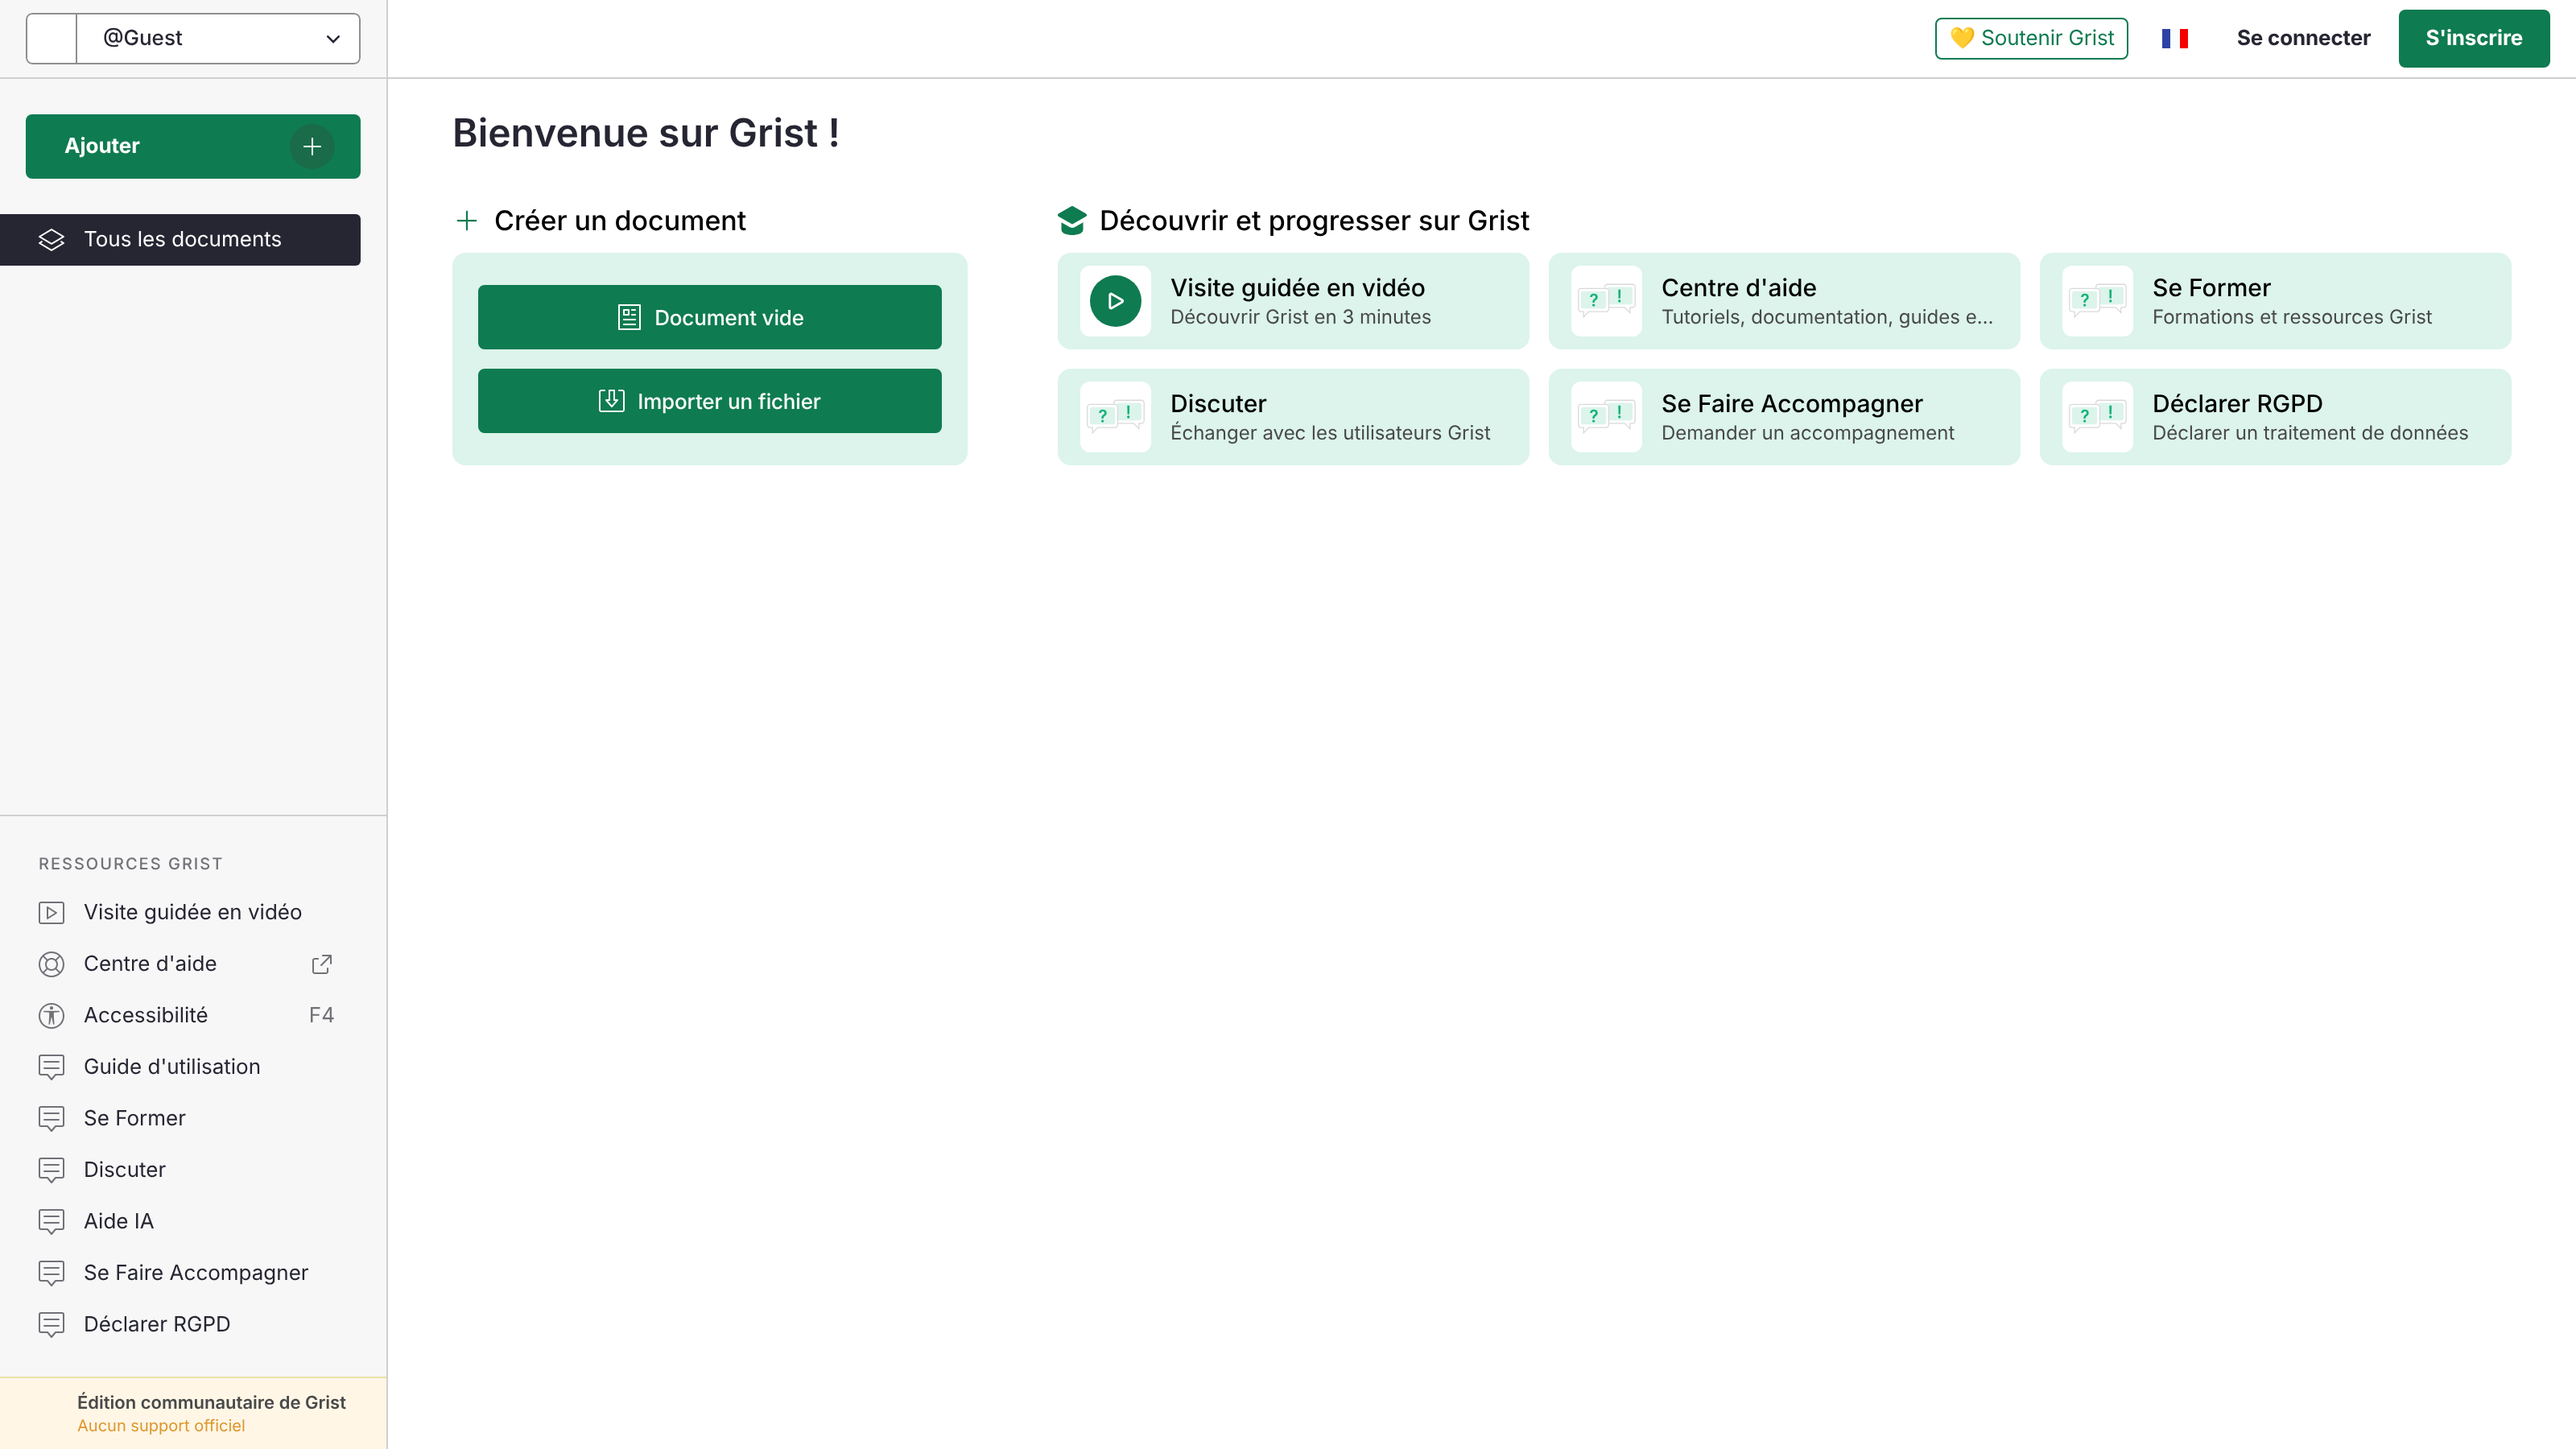
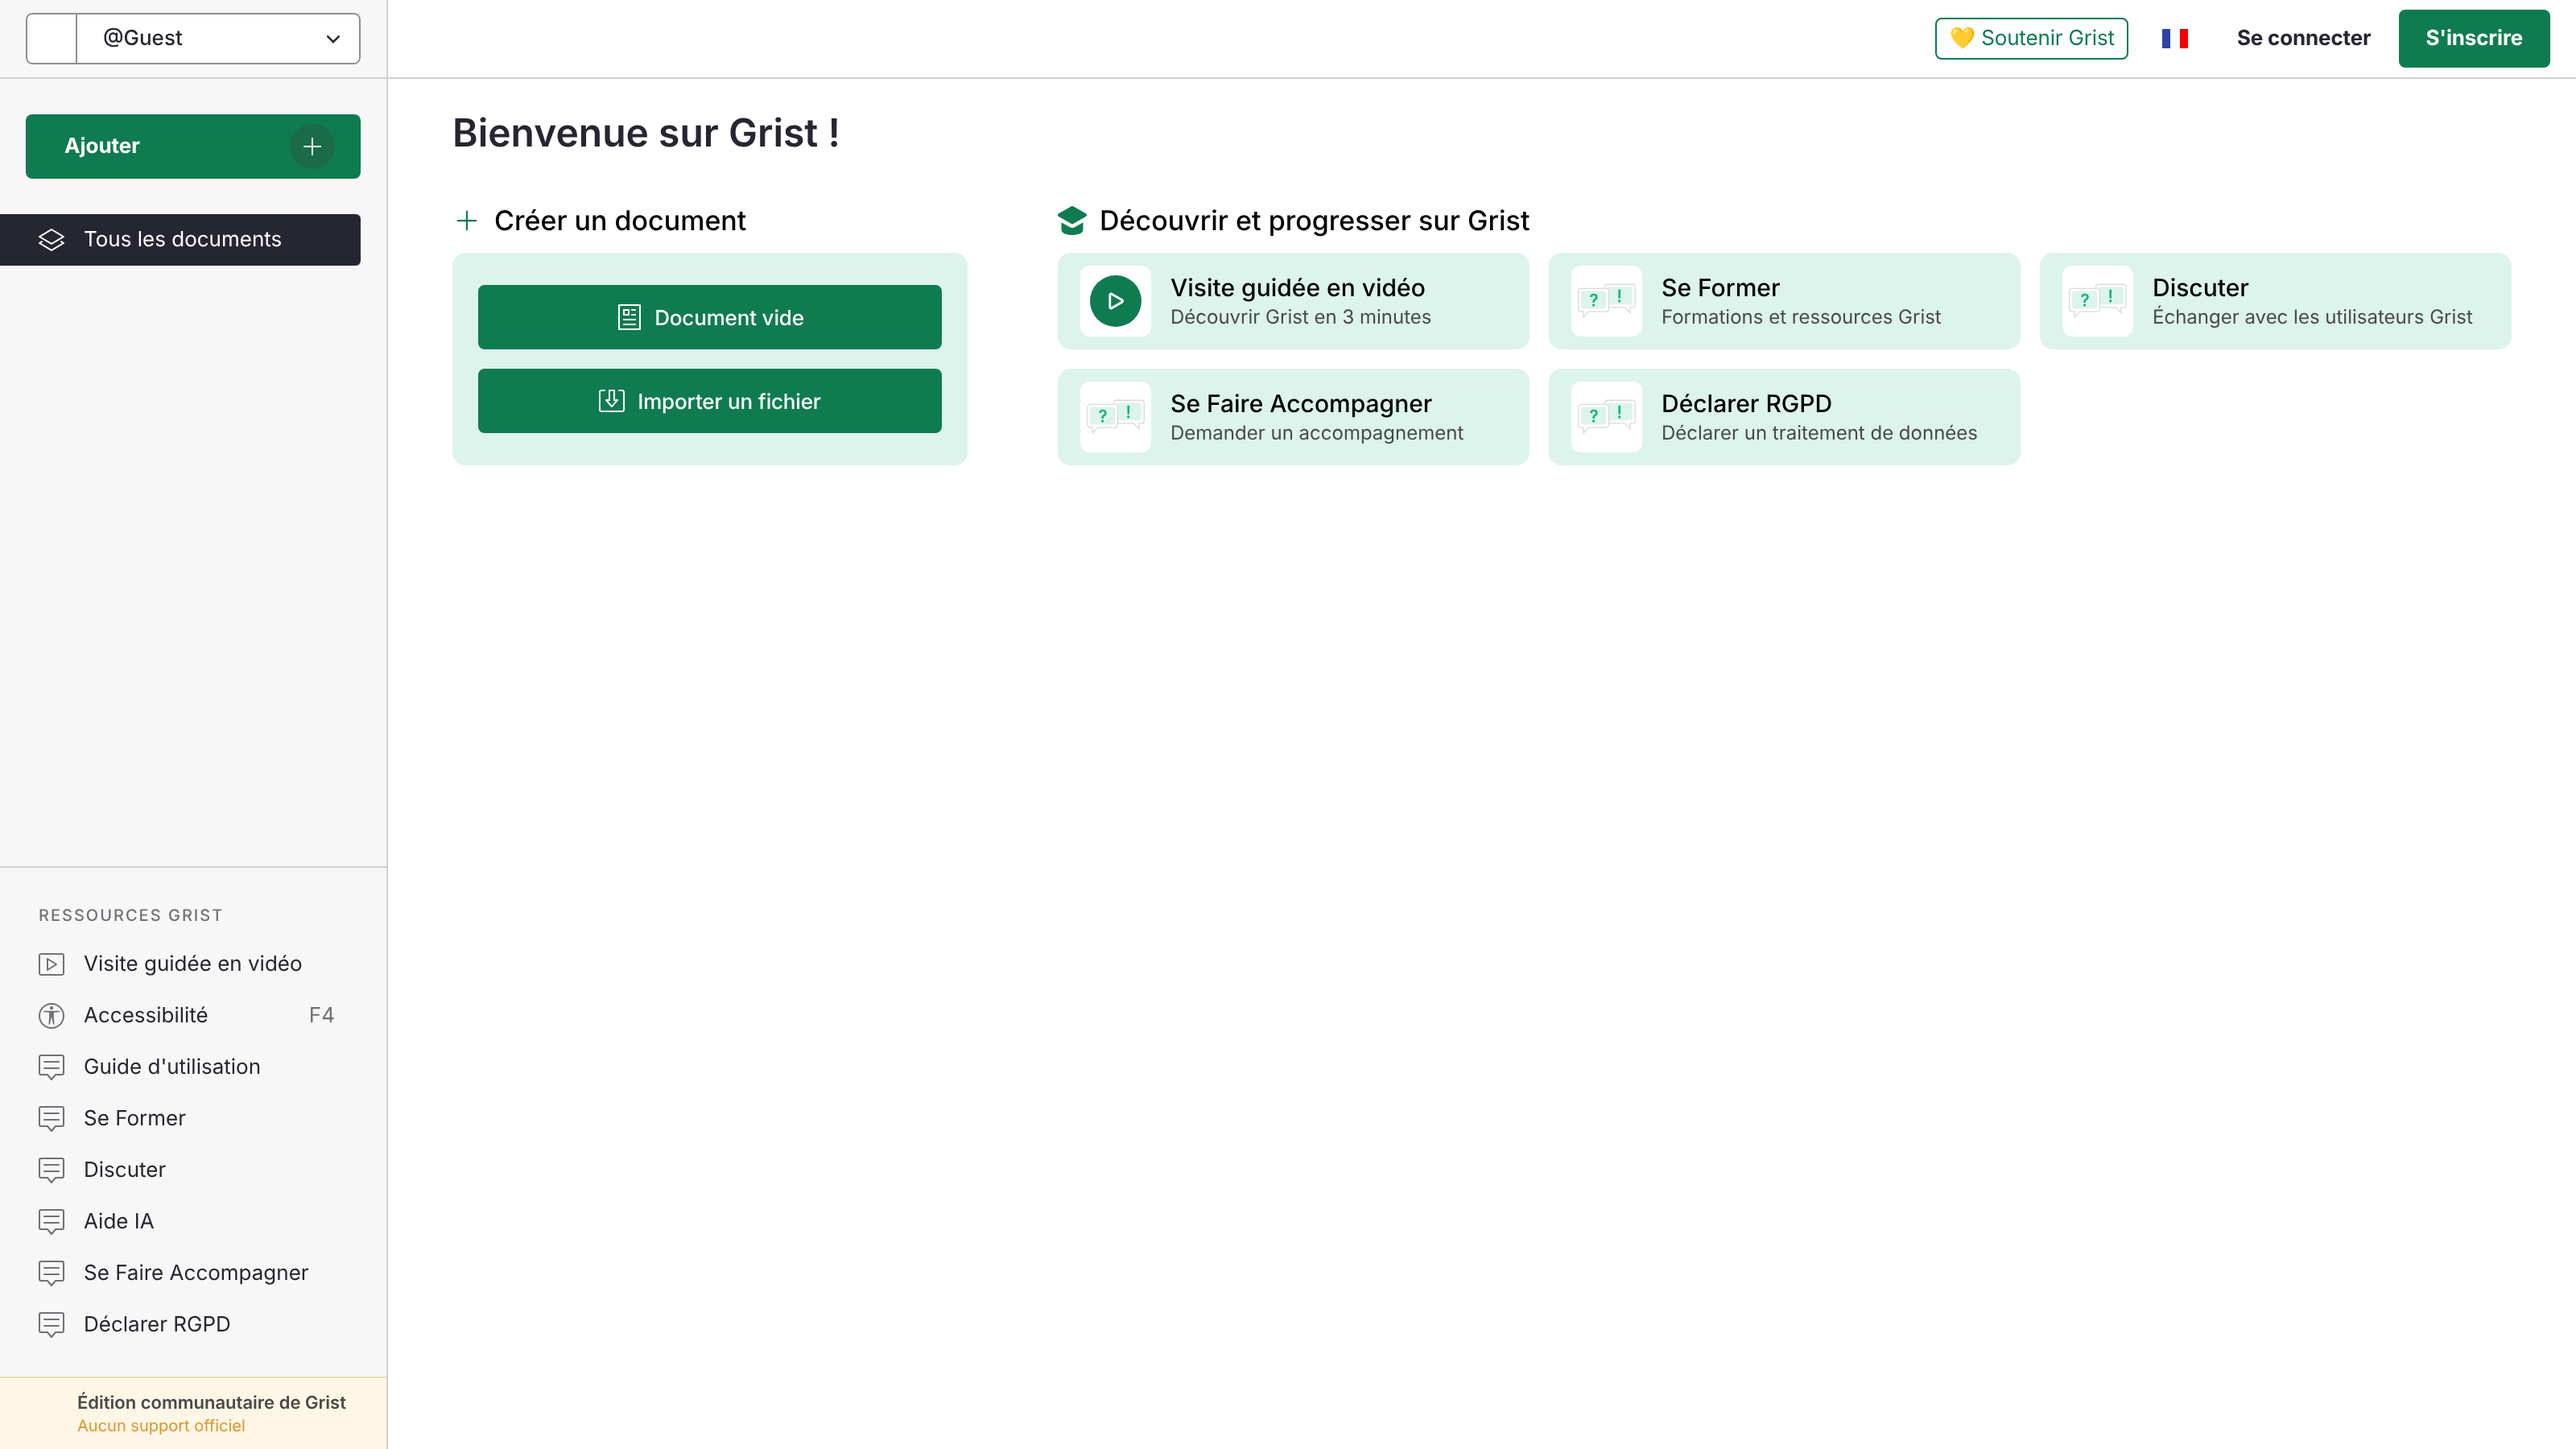
custom.css: minimal version hiding webinars card and help center
Claude-Session: https://claude.ai/code/session_01DnU9Z76kDCiaDEQqvh7PZT

diff --git a/custom/custom.css b/custom/custom.css
@@ -258,31 +258,10 @@
 
 
 /* ============================================================================
- * 6. AJOUTS : masquer des éléments de Grist
- *    Règles hors @layer, avec !important : elles passent devant le style de Grist.
- *    Masquer en CSS ne supprime pas l'élément : custom.js peut toujours s'en
- *    servir comme modèle. Ne PAS utiliser GRIST_HIDE_UI_ELEMENTS=helpCenter
- *    à la place (les boutons ajoutés par custom.js disparaîtraient).
+ * 6. AJOUTS : masquer la carte Webinaires et le Centre d'aide
  * ========================================================================= */
-
-/* Accueil : carte « Webinaires » */
-.test-intro-webinars {
+.test-intro-webinars,               /* carte Webinaires (accueil) */
+.test-intro-help-center,            /* carte Centre d'aide (accueil) */
+div:has(> .test-left-feedback) {    /* lien Centre d'aide (menu de gauche + Outils) */
   display: none !important;
 }
-
-/* Centre d'aide (optionnel) : pour le masquer, retirer le commentaire des 2 lignes.
-   1re ligne : carte de l'accueil.
-   2e ligne  : lien du menu de gauche (accueil) ET du panneau Outils (documents).
-   Les boutons ajoutés par custom.js restent affichés. */
-/* .test-intro-help-center { display: none !important; } */
-/* div:has(> .test-left-feedback) { display: none !important; } */
-
-/* Documents (optionnel) : masquer des entrées du panneau « Outils ».
-   Masque seulement l'entrée du menu : la page reste accessible par son URL. */
-/* .test-tools-assistant, div:has(> .test-tools-assistant) { display: none !important; } */
-/* .test-tools-access-rules   { display: none !important; } */
-/* div:has(> .test-tools-raw) { display: none !important; } */
-/* div:has(> .test-tools-log) { display: none !important; } */
-/* .test-tools-code           { display: none !important; } */
-/* .test-tools-automations    { display: none !important; } */
-/* .test-tools-settings       { display: none !important; } */
